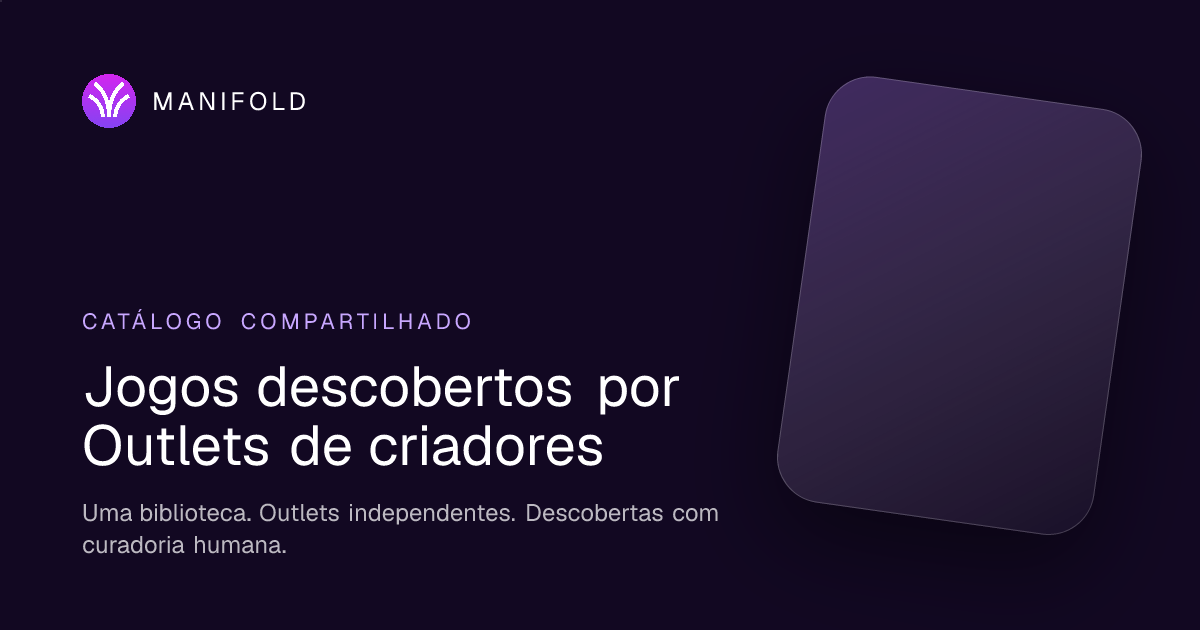
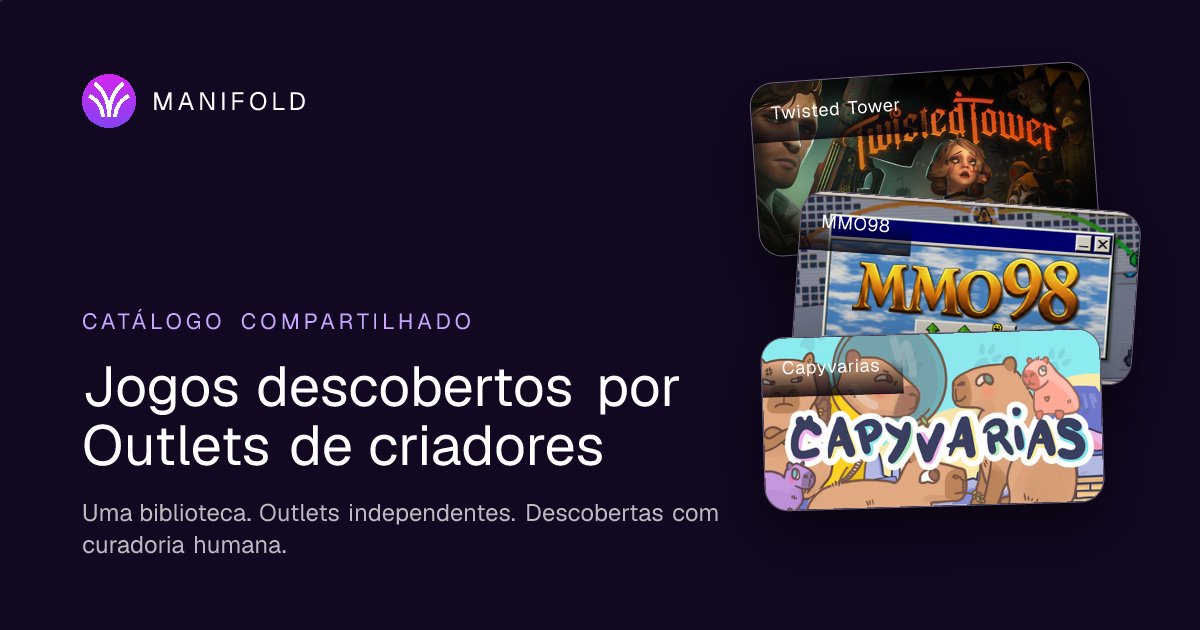
fix(seo): show catalog art in home preview

Changed region(s): [[0.6167, 0.0905, 0.9558, 0.8444]]

diff --git a/pages/api/og/[...segments].tsx b/pages/api/og/[...segments].tsx
@@ -23,6 +23,21 @@ const ALLOWED_IMAGE_HOSTS = new Set([
   "cdn.akamai.steamstatic.com",
 ]);
 
+const HOME_CATALOG_ART = [
+  {
+    title: "Twisted Tower",
+    url: "/images/social/home-catalog/twisted-tower.jpg",
+  },
+  {
+    title: "MMO98",
+    url: "/images/social/home-catalog/mmo98.jpg",
+  },
+  {
+    title: "Capyvarias",
+    url: "/images/social/home-catalog/capyvarias.jpg",
+  },
+] as const;
+
 function requestLocale(request: NextRequest): AppLocale {
   return new URL(request.url).searchParams.get("locale") === "pt-BR"
     ? "pt-BR"
@@ -176,9 +191,11 @@ function Frame({ children }: { children: React.ReactNode }) {
 function HomeCard({
   locale,
   logo,
+  catalogArt,
 }: {
   locale: AppLocale;
   logo: string | null;
+  catalogArt: Array<{ title: string; image: string }>;
 }) {
   const metadata = homeMetadata(locale);
 
@@ -196,19 +213,59 @@ function HomeCard({
       <div
         style={{
           position: "absolute",
-          right: 80,
-          top: 90,
+          right: 58,
+          top: 72,
           display: "flex",
-          width: 320,
-          height: 430,
-          borderRadius: 46,
-          transform: "rotate(8deg)",
-          background:
-            "linear-gradient(145deg, rgba(182,128,255,0.28), rgba(255,255,255,0.03))",
-          border: "1px solid rgba(255,255,255,0.2)",
-          boxShadow: "0 35px 90px rgba(0,0,0,0.45)",
+          width: 390,
+          height: 500,
         }}
-      />
+      >
+        {catalogArt.map((art, index) => (
+          <div
+            key={art.title}
+            style={{
+              position: "absolute",
+              top: index * 128,
+              left: index === 1 ? 42 : index === 2 ? 12 : 0,
+              display: "flex",
+              width: 340,
+              height: 174,
+              overflow: "hidden",
+              borderRadius: 24,
+              transform: `rotate(${index === 0 ? -4 : index === 1 ? 4 : -2}deg)`,
+              border: "1px solid rgba(255,255,255,0.35)",
+              boxShadow: "0 24px 60px rgba(0,0,0,0.55)",
+              background: "#1d102e",
+            }}
+          >
+            {/* eslint-disable-next-line @next/next/no-img-element */}
+            <img
+              alt=""
+              src={art.image}
+              width={340}
+              height={174}
+              style={{ width: "100%", height: "100%", objectFit: "cover" }}
+            />
+            <div
+              style={{
+                position: "absolute",
+                inset: 0,
+                display: "flex",
+                alignItems: "flex-end",
+                padding: "18px 20px",
+                background:
+                  "linear-gradient(180deg, transparent 42%, rgba(8,4,13,0.88) 100%)",
+                color: "white",
+                fontSize: 18,
+                fontWeight: 800,
+                letterSpacing: "0.04em",
+              }}
+            >
+              {art.title}
+            </div>
+          </div>
+        ))}
+      </div>
       <div
         style={{
           position: "relative",
@@ -524,7 +581,21 @@ export default async function handler(request: NextRequest) {
   let card: React.ReactElement;
 
   if (kind === "home" && !slug) {
-    card = <HomeCard locale={locale} logo={brandLogo} />;
+    const catalogImages = await Promise.all(
+      HOME_CATALOG_ART.map(async (art) => ({
+        title: art.title,
+        image: await loadImageData(art.url, url.origin),
+      })),
+    );
+    card = (
+      <HomeCard
+        locale={locale}
+        logo={brandLogo}
+        catalogArt={catalogImages.flatMap((art) =>
+          art.image ? [{ title: art.title, image: art.image }] : [],
+        )}
+      />
+    );
   } else if (kind === "outlet" && slug) {
     const store = await fetchPublicJson<StoreApi>(
       new URL(`/api/v1/stores/${encodeURIComponent(slug)}`, url.origin),
